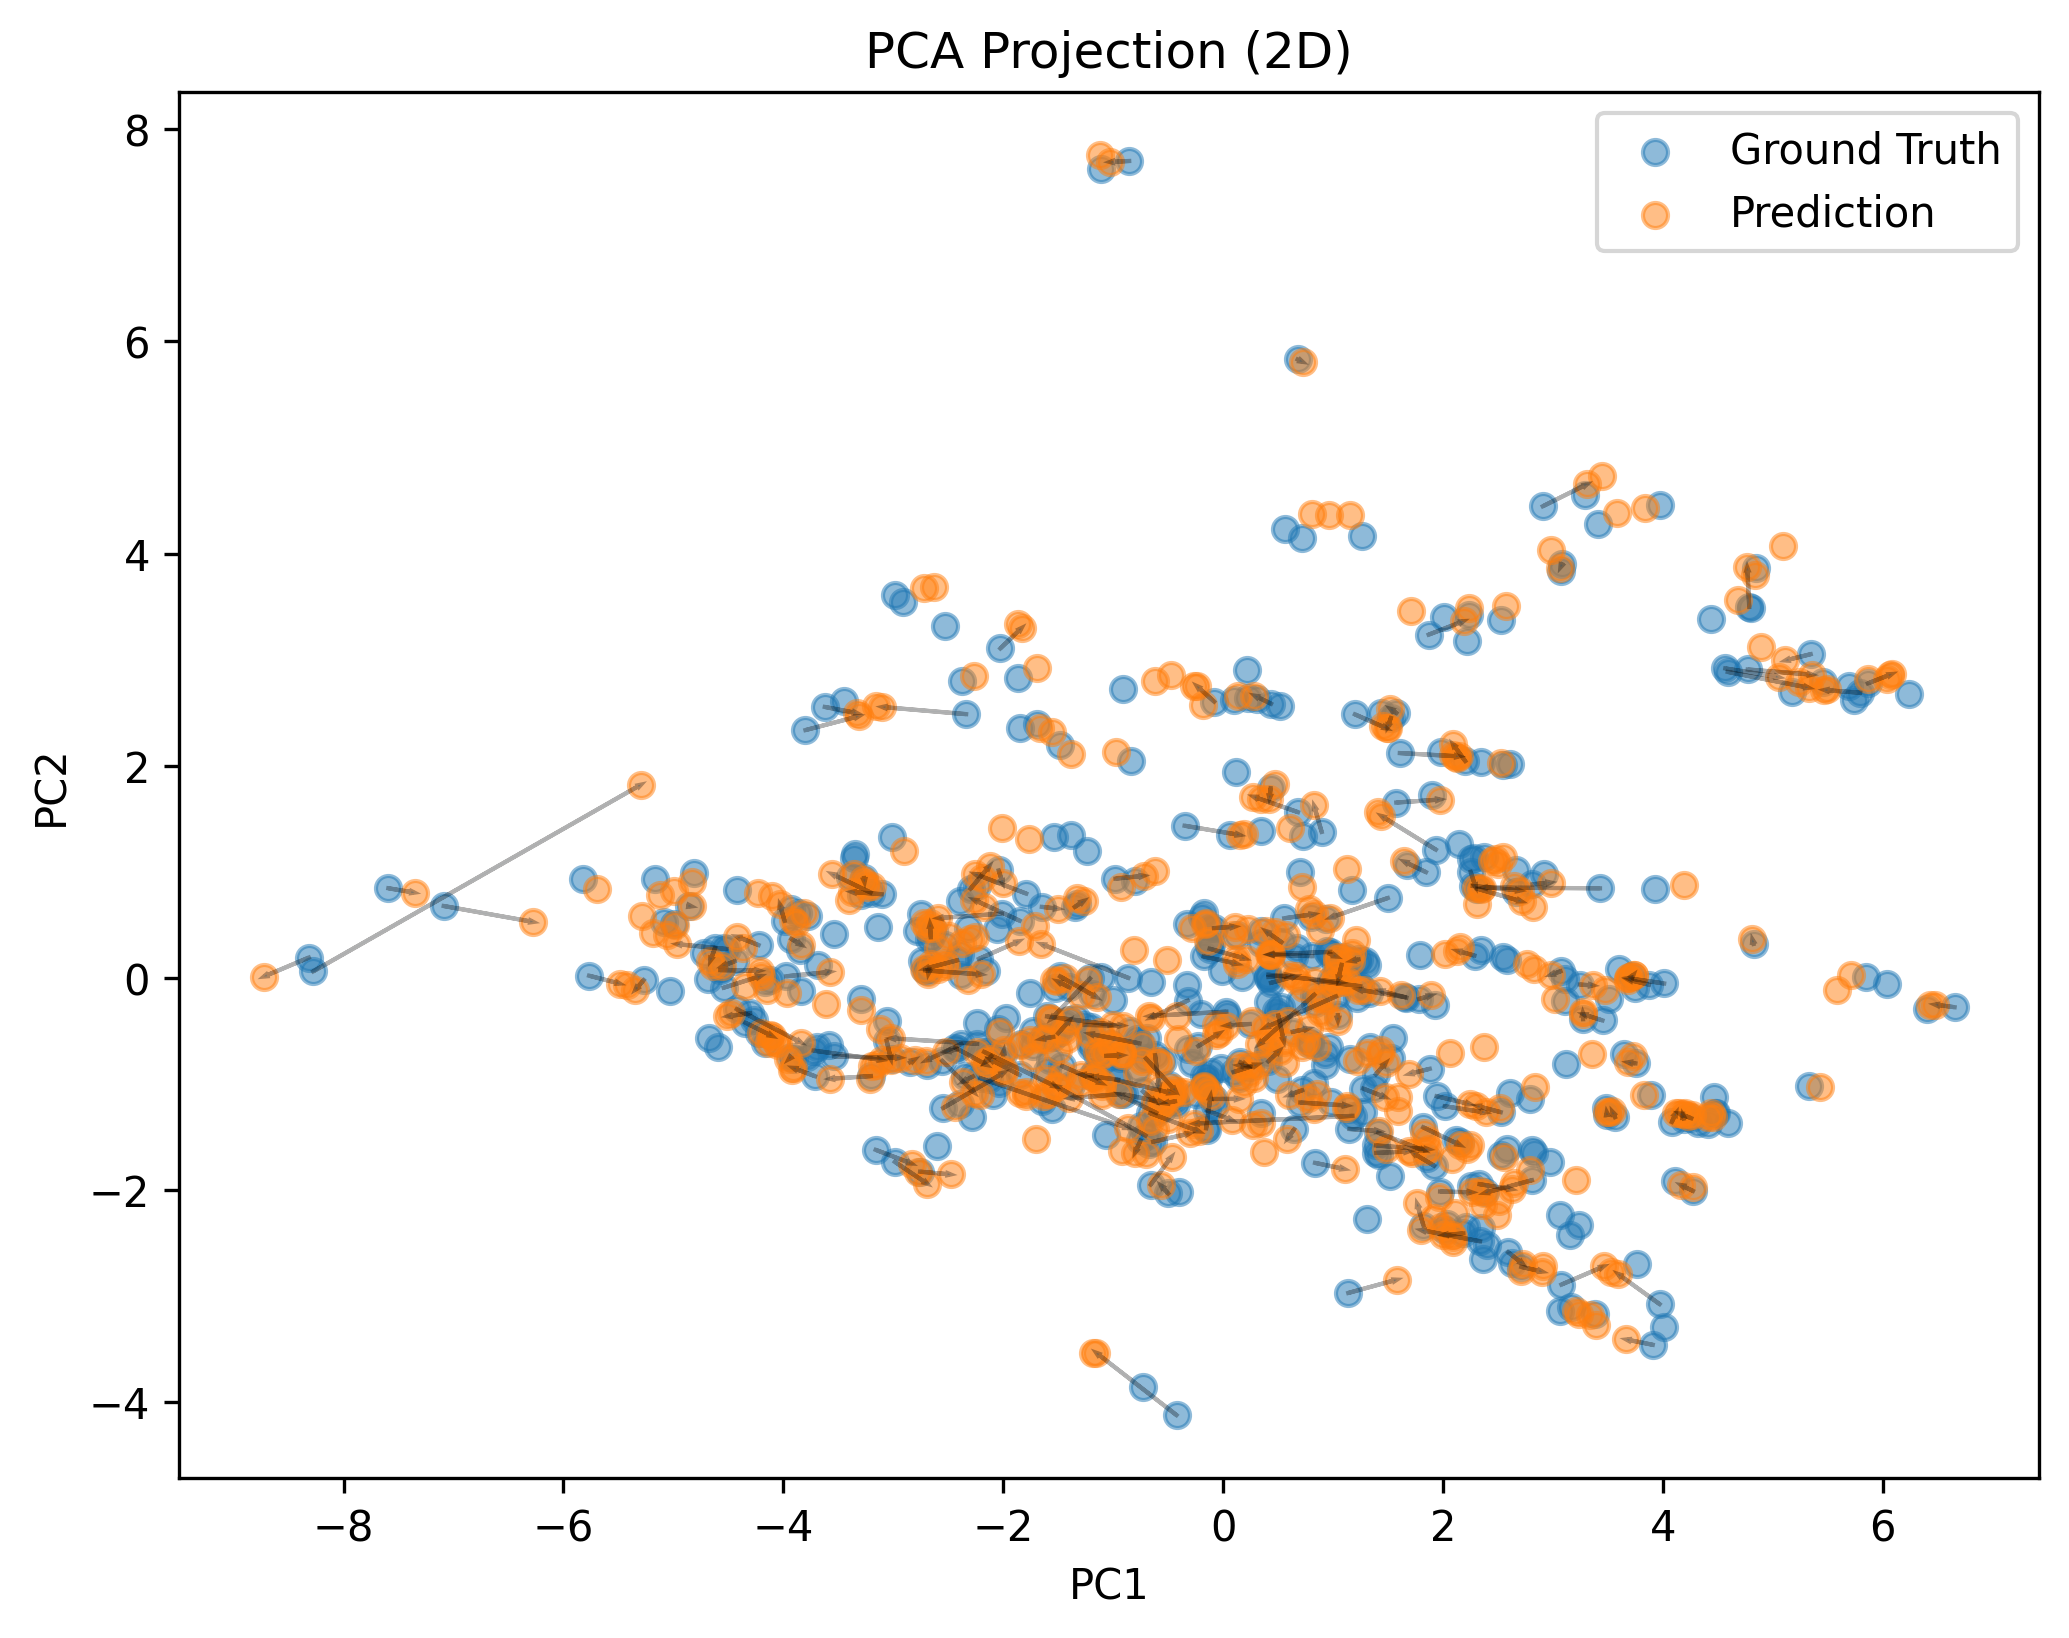
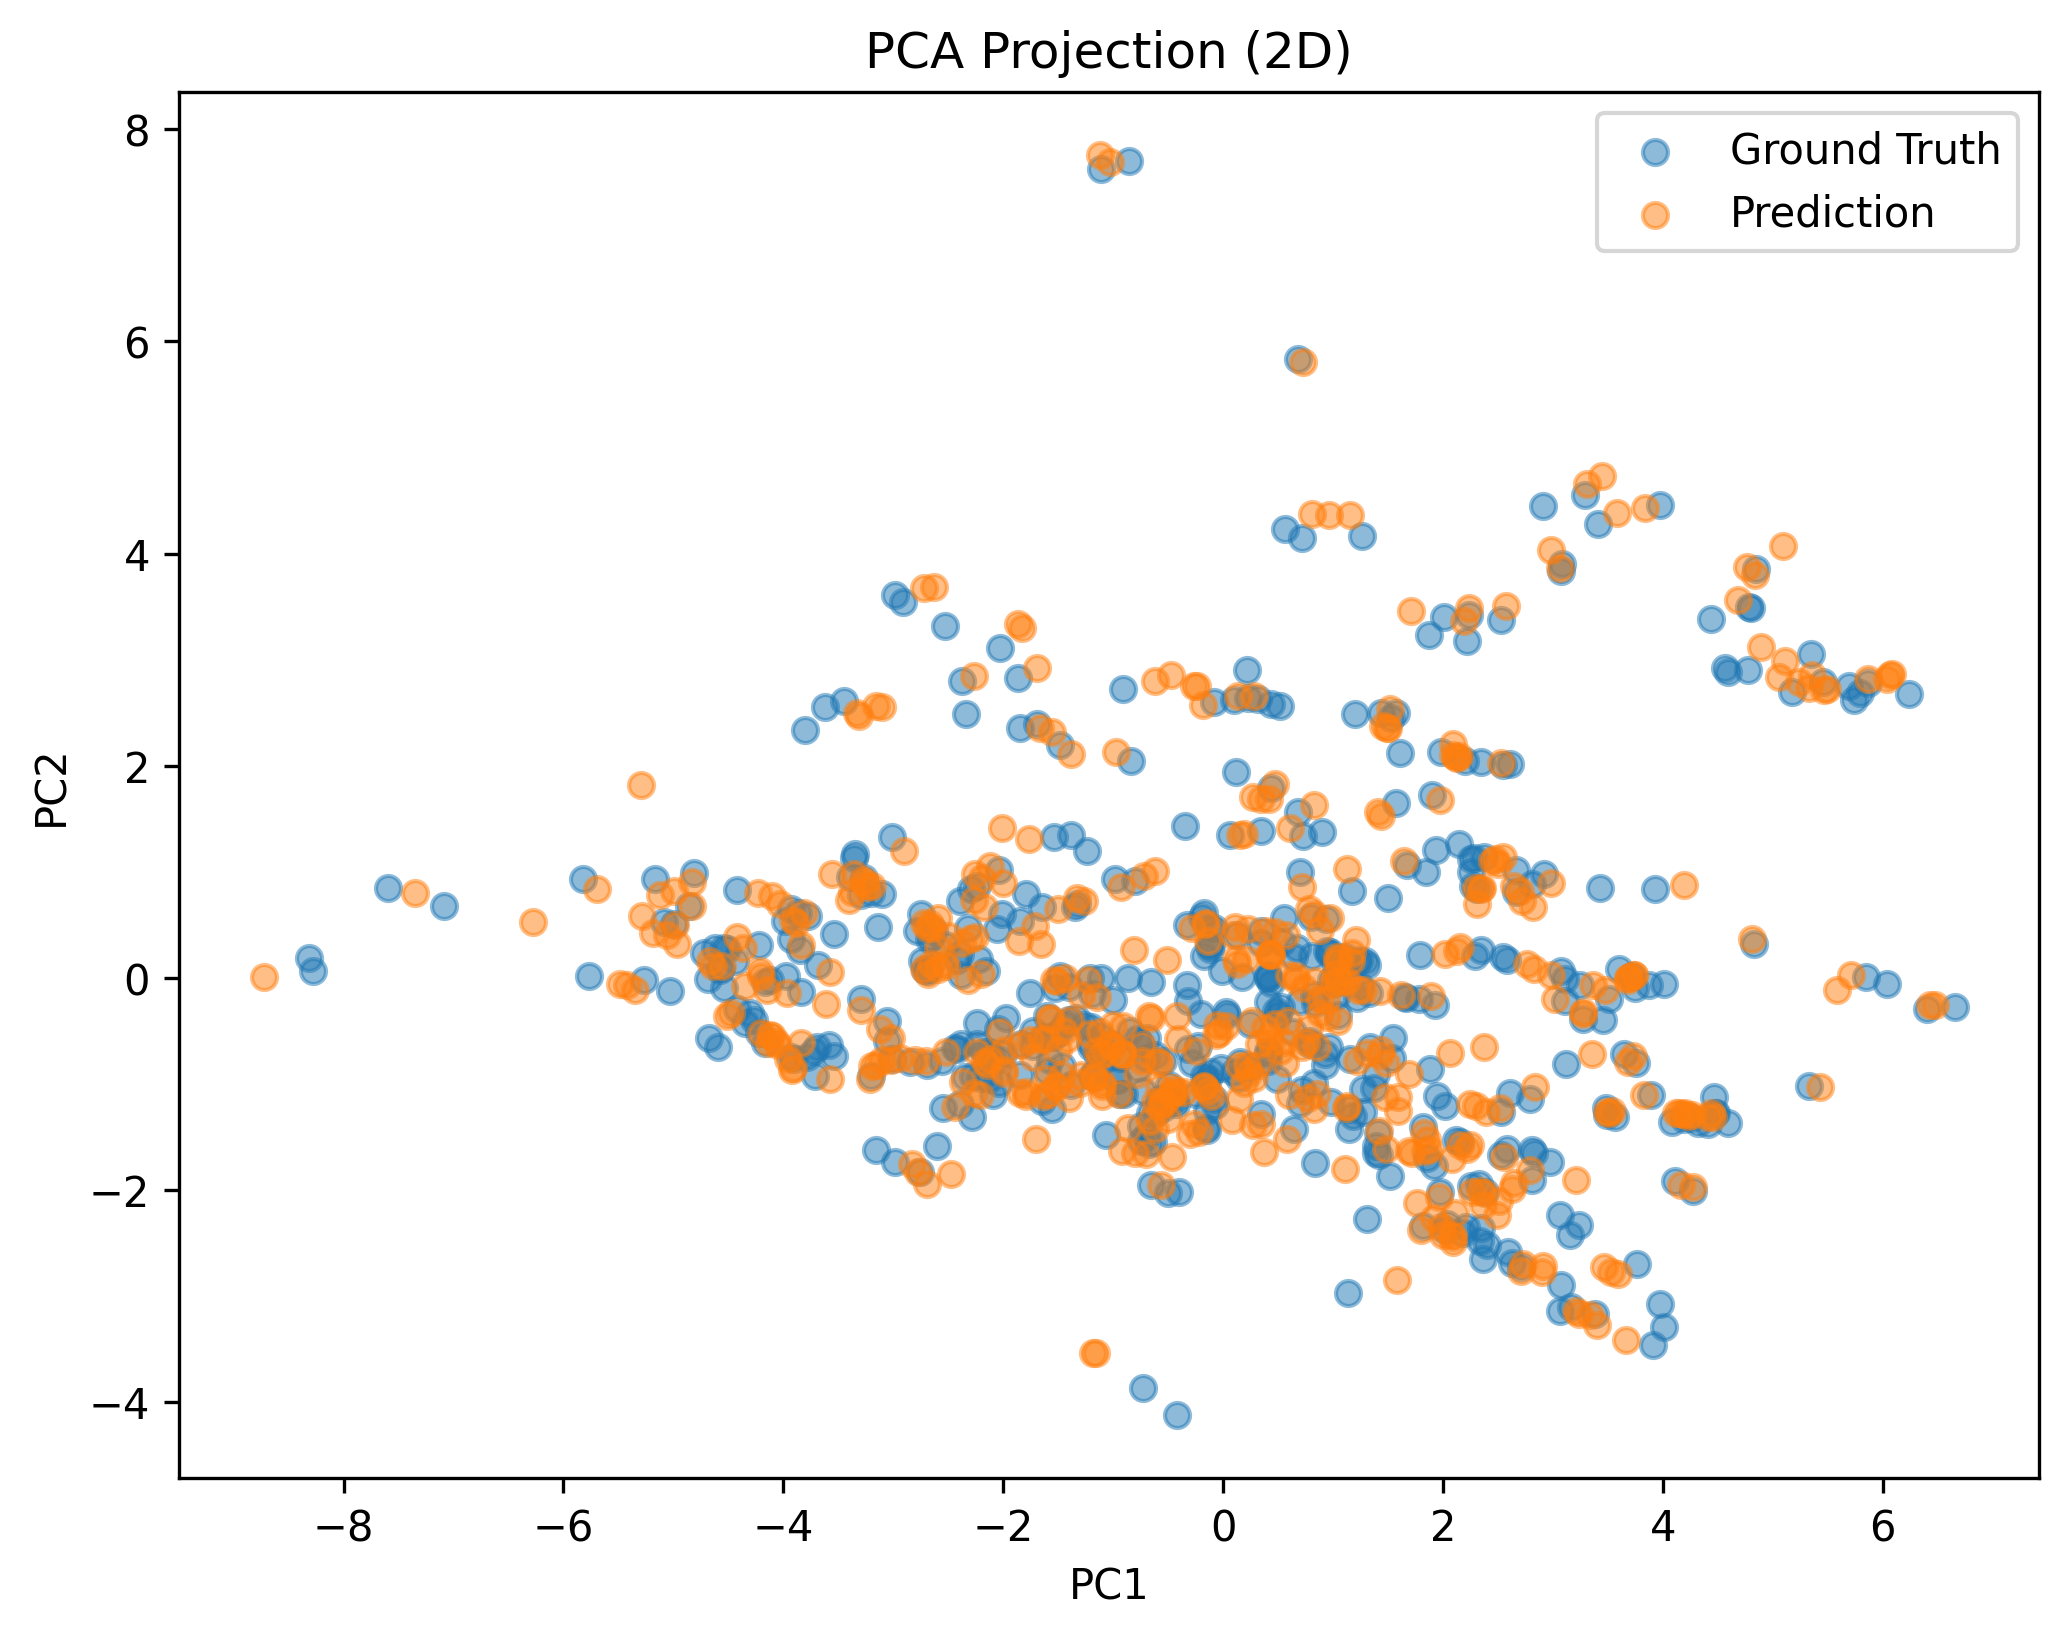
Small fixes in figures and added new figures

diff --git a/src/train_and_evaluate.py b/src/train_and_evaluate.py
@@ -8,14 +8,16 @@ from model import CustomLoss
 from model import InksNet
 import time
 import datetime
-from sklearn.metrics import confusion_matrix, r2_score, mean_absolute_error, mean_squared_error
+from sklearn.metrics import confusion_matrix, r2_score, mean_absolute_error, mean_squared_error, accuracy_score, f1_score, precision_recall_fscore_support
 import seaborn as sns
 from seaborn import heatmap
 import json
 from matplotlib.pyplot import cm
 from matplotlib.lines import Line2D
 from scipy.stats import probplot
+from scipy.cluster.hierarchy import linkage, leaves_list
 from sklearn.decomposition import PCA
+from collections import Counter
 
 import torch.optim as optim
 import optuna
@@ -249,7 +251,7 @@ def compute_metrics(outputs, labels):
 
     return summary
 
-def plot_pred_vs_gt(outputs, labels, elements_to_keep, xlabel='Ground truth', ylabel='Prediction', path_to_save=None):
+def plot_pred_vs_gt(outputs, labels, elements_to_keep, xlabel='True value', ylabel='Prediction', path_to_save=None):
 
     n_dims = outputs.shape[1]
     fig, axes = plt.subplots(2, n_dims//2 + 1, figsize=(16, 10))
@@ -290,7 +292,7 @@ def plot_pred_vs_gt(outputs, labels, elements_to_keep, xlabel='Ground truth', yl
 def plot_residuals(outputs, labels, elements_to_keep, xlabel='True value', ylabel='Residual', path_to_save=None):
 
     n_dims = outputs.shape[1]
-    fig, axes = plt.subplots(2, n_dims//2 + 1, figsize=(16, 10), sharey=True)
+    fig, axes = plt.subplots(2, n_dims//2 + 1, figsize=(12, 5), sharey=True)
     axes = axes.flatten()
 
     y_max_max = (outputs-labels).max().max()
@@ -306,21 +308,23 @@ def plot_residuals(outputs, labels, elements_to_keep, xlabel='True value', ylabe
 
         ax.plot([min_val, max_val], [mean_res, mean_res], 'black')
 
-        ax.scatter(y_true, y_pred-y_true, alpha=0.25, color='red')
+        ax.scatter(y_true, y_pred-y_true, alpha=0.25)
 
         title = elements_to_keep[i]
 
         y_max = (y_pred-y_true).max()
         y_min = (y_pred-y_true).min()
         text = 'Mean residual: \n' + str(np.round(mean_res, 3))
-        ax.text(min_val, y_max_max-0.45, text)
+        ax.text(min_val, y_max_max-0.85, text)
 
-        ax.set_title(title, size=15)
+        ax.tick_params(axis='both', labelsize=5)
+
+        ax.set_title(title, size=10)
 
     axes[-1].set_axis_off()
 
-    fig.text(0.52, 0.05, xlabel, ha='center', size=18)
-    fig.text(0.08, 0.5, ylabel, va='center', rotation='vertical', size=18)
+    fig.text(0.52, 0.0, xlabel, ha='center', size=25)
+    fig.text(0.06, 0.55, ylabel, va='center', rotation='vertical', size=25)
 
     #plt.tight_layout()
     if path_to_save:
@@ -352,8 +356,8 @@ def plot_error_distributions(outputs, labels, elements_to_keep, xlabel='Residual
 
     axes[-1].set_axis_off()
 
-    fig.text(0.52, 0.03, xlabel, ha='center', size=18)
-    fig.text(0.08, 0.5, ylabel, va='center', rotation='vertical', size=18)
+    fig.text(0.52, 0.03, xlabel, ha='center', size=34)
+    fig.text(0.08, 0.5, ylabel, va='center', rotation='vertical', size=34)
 
     #plt.tight_layout()
     if path_to_save:
@@ -364,7 +368,7 @@ def plot_error_distributions(outputs, labels, elements_to_keep, xlabel='Residual
 def plot_qq(outputs, labels, elements_to_keep, xlabel='Theoretical quantiles', ylabel='Prediction quantiles', path_to_save=None):
 
     n_dims = outputs.shape[1]
-    fig, axes = plt.subplots(2, n_dims//2 + 1, figsize=(16, 8), sharey=True, sharex=True)
+    fig, axes = plt.subplots(2, n_dims//2 + 1, figsize=(16, 6), sharey=True, sharex=True)
     axes = axes.flatten()
 
     for i in range(n_dims):
@@ -381,12 +385,13 @@ def plot_qq(outputs, labels, elements_to_keep, xlabel='Theoretical quantiles', y
 
         title = elements_to_keep[i]
 
+        ax.tick_params(axis='both', labelsize=8)
         ax.set_title(title, size=15)
 
     axes[-1].set_axis_off()
 
-    fig.text(0.52, 0.03, xlabel, ha='center', size=18)
-    fig.text(0.08, 0.5, ylabel, va='center', rotation='vertical', size=18)
+    fig.text(0.52, 0.0, xlabel, ha='center', size=34)
+    fig.text(0.08, 0.5, ylabel, va='center', rotation='vertical', size=34)
 
     #plt.tight_layout()
     if path_to_save:
@@ -413,36 +418,51 @@ def plot_error_violinplot(outputs, labels, elements_to_keep, xlabel='', ylabel='
 
     residuals_all = outputs - labels
 
-    fig = plt.figure(figsize=(10, 5))
+    fig = plt.figure(figsize=(16, 8))
     ax = sns.violinplot(data=residuals_all)
     fig.text(0.52, 0.03, xlabel, ha='center', size=18)
-    fig.text(0.07, 0.5, ylabel, va='center', rotation='vertical', size=18)
-    ax.set_xticklabels(elements_to_keep, size=15)
+    fig.text(0.07, 0.5, ylabel, va='center', rotation='vertical', size=32)
+    ax.set_xticklabels(elements_to_keep, size=25)
 
     if path_to_save:
         plt.savefig(path_to_save+'error_violinplot.png', dpi=300, bbox_inches="tight")
     plt.show()
     plt.close(fig)
 
-def plot_correlation_heatmaps(outputs, labels, elements_to_keep, xlabel='', ylabel='Residual', path_to_save=None):
+def plot_correlation_heatmaps(outputs, labels, elements_to_keep, xlabel='', ylabel='Residual', cluster=False, path_to_save=None):
+
+    def clustered_corr(data, method='average'):
+        corr = np.corrcoef(data, rowvar=False)
+        Z = linkage(corr, method=method)
+        order = leaves_list(Z)
+        return corr[order][:, order]
 
     fig = plt.figure(figsize=(12, 5))
 
     plt.subplot(1, 2, 1)
-    ax = sns.heatmap(np.corrcoef(labels, rowvar=False), annot=False)
+    if cluster:
+        ax = sns.heatmap(clustered_corr(labels), annot=False, cmap='rocket_r')
+    else:
+        ax = sns.heatmap(np.corrcoef(labels, rowvar=False), annot=False, cmap='rocket_r')
+
     ax.set_xticklabels(elements_to_keep)
     ax.set_yticklabels(elements_to_keep)
+
     plt.tick_params(axis='both', which='major', labelbottom = False, bottom=False, top = True, labeltop=True)
-    #plt.title("Ground Truth Correlation")
 
     plt.subplot(1, 2, 2)
-    ax = sns.heatmap(np.corrcoef(outputs, rowvar=False), annot=False)
+    if cluster:
+        ax = sns.heatmap(clustered_corr(outputs), annot=False, cmap='rocket_r')
+    else:
+        ax = sns.heatmap(np.corrcoef(outputs, rowvar=False), annot=False, cmap='rocket_r')
+
     ax.set_xticklabels(elements_to_keep)
     ax.set_yticklabels(elements_to_keep)
-    plt.tick_params(axis='both', which='major', labelbottom = False, bottom=False, top = True, labeltop=True)
-    #plt.title("Prediction Correlation")
 
-    fig.text(0.47, 0.05, "Ground Truth Correlation                           Prediction Correlation", ha='center', size=18)
+
+    plt.tick_params(axis='both', which='major', labelbottom = False, bottom=False, top = True, labeltop=True)
+
+    fig.text(0.47, 0.05, "     True correlations               Prediction correlations", ha='center', size=25)
 
     if path_to_save:
         plt.savefig(path_to_save+'correlation_heatmap.png', dpi=300, bbox_inches="tight")
@@ -456,10 +476,10 @@ def plot_l2_error(outputs, labels, path_to_save=None):
 
     true_norm = np.linalg.norm(labels, axis=1)
 
-    fig = plt.figure(figsize=(8,5))
+    fig = plt.figure(figsize=(10, 6))
     plt.scatter(true_norm, l2_error, alpha=0.5)
-    plt.xlabel("Sum of ground truth magnitudes for all elements", size=18)
-    plt.ylabel("L2 error of prediction", size=18)
+    plt.xlabel("Sum of true magnitudes", size=34)
+    plt.ylabel("L2 error of prediction", size=33)
 
     if path_to_save:
         plt.savefig(path_to_save+'global_error_vs_magnitude.png', dpi=300, bbox_inches="tight")
@@ -503,7 +523,120 @@ def plot_pca_projection(outputs, labels, path_to_save=None, max_arrows=200):
     plt.show()
     plt.close(fig)
 
-# CLASSIFICATION-BASED STATISTICS AND VISUALISATIONS
+# CLASSIFICATION-BASED STATISTICS AND VISUALISATIONS PART 1
+
+def plot_topk_confusion(y_true, y_pred, top_k=20, path_to_save=None):
+
+    # get most frequent classes
+    counts = Counter(y_true)
+    top_classes = [c for c, _ in counts.most_common(top_k)]
+    print(top_classes)
+
+    mask = np.isin(y_true, top_classes)
+    y_true_k = y_true[mask]
+    y_pred_k = y_pred[mask]
+
+    cm = confusion_matrix(y_true_k, y_pred_k, labels=top_classes)
+
+    plt.figure(figsize=(8, 6))
+    plt.imshow(cm, cmap=sns.cm.rocket_r)
+
+    plt.title(f"Top-{top_k} confusion matrix", size=25)
+    plt.xlabel("Predicted class", size=25)
+    plt.ylabel("True class", size=25)
+    plt.xticks([])
+    plt.yticks([])
+    #plt.colorbar()
+
+    if path_to_save:
+        plt.savefig(path_to_save+'top_k_confusion_matrix.png', dpi=300, bbox_inches="tight")
+    plt.show()
+    plt.close()
+
+
+def plot_prf_distribution_subplots(y_true, y_pred, xlabel='Score distribution', ylabel='Count', path_to_save=None):
+
+    precision, recall, f1, _ = precision_recall_fscore_support(
+        y_true, y_pred, average=None
+    )
+
+    fig, axes = plt.subplots(1, 3, sharey=True, figsize=(16,6))
+
+    axes[0].hist(precision, bins=30)
+    axes[0].set_xlabel("Precision", size=25)
+
+    axes[1].hist(recall, bins=30)
+    axes[1].set_xlabel("Recall", size=25)
+
+    axes[2].hist(f1, bins=30)
+    axes[2].set_xlabel("F1", size=25)
+
+    fig.text(0.5, 0.9, xlabel, ha='center', size=25)
+    fig.text(0.05, 0.5, ylabel, va='center', rotation='vertical', size=25)
+
+    if path_to_save:
+        plt.savefig(path_to_save+'prec_rec_f1_distributions.png', dpi=300, bbox_inches="tight")
+    plt.show()
+    plt.close()
+
+def plot_error_distribution(y_true, y_pred, path_to_save=None):
+    errors = y_true[y_true != y_pred]
+    error_counts = Counter(errors)
+
+    sorted_counts = sorted(error_counts.values(), reverse=True)
+
+    plt.figure()
+    plt.plot(sorted_counts)
+    plt.title("Error distribution (long tail)")
+    plt.xlabel("Class rank")
+    plt.ylabel("Number of errors")
+
+    if path_to_save:
+        plt.savefig(path_to_save+'error_distribution_classification.png', dpi=300, bbox_inches="tight")
+    plt.show()
+    plt.close()
+
+def plot_freq_vs_f1(y_true, y_pred, xlabel='Class frequency', path_to_save=None):
+
+
+    counts = Counter(y_true)
+    labels = np.unique(y_true)
+
+    precision, recall, f1, _ = precision_recall_fscore_support(
+        y_true, y_pred, labels=labels, average=None
+    )
+
+    freqs = np.array([counts[l] for l in labels])
+
+    fig, axes = plt.subplots(1, 3, sharey=True, figsize=(16,6))
+
+    #axes[0].hist2d(freqs, precision, bins=30)
+    axes[0].scatter(freqs, precision, alpha = 0.2, s=[0.7*len(freqs)])
+    axes[0].set_ylabel("Precision", size=25)
+
+    #axes[1].hist2d(freqs, recall, bins=30)
+    axes[1].scatter(freqs, recall, alpha = 0.2, s=[0.7*len(freqs)])
+    axes[1].set_ylabel("Recall", size=25)
+
+    #axes[2].hist2d(freqs, f1, bins=30)
+    axes[2].scatter(freqs, f1, alpha = 0.2, s=[0.7*len(freqs)])
+    axes[2].set_ylabel("F1", size=25)
+
+    fig.text(0.5, 0.0, xlabel, ha='center', size=25)
+    #fig.colorbar(label="Number of classes")
+    #fig.text(0.05, 0.5, ylabel, va='center', rotation='vertical', size=25)
+
+    # plt.figure()
+    # plt.scatter(freqs, f1, alpha = 0.2)
+    # plt.ylabel("F1 score")
+    # plt.title("Class frequency vs F1")
+    if path_to_save:
+        plt.savefig(path_to_save+'freq_vs_f1.png', dpi=300, bbox_inches="tight")
+    plt.show()
+    plt.close()
+
+
+# CLASSIFICATION-BASED STATISTICS AND VISUALISATIONS PART 2
 
 def create_means_df(elements_to_keep, y_train, train_order, y_val, val_order):
 

diff --git a/analysis/4_neural_network_validation.py b/analysis/4_neural_network_validation.py
@@ -151,11 +151,11 @@ print(torch.mean(difference, axis=0))
 # Consecutive coordinates correspond to: Al, S, Cr, Mn, Co, Cu, Zn, Pb, Fe, Mg.
 # Significance of elements: Cu >> Mn > Al > Zn > Pb > S > Cr > Co >> all the others.
 
-# Visualise prediction against true:
+# BASIC DIAGNOSTIC PLOTS
 
-# plot_pred_vs_gt(to_numpy(outputs), to_numpy(labels), ELEMENTS_TO_KEEP, xlabel='Logarithmed ground truth', ylabel='Logarithmed prediction', path_to_save=FIGURES_PATH)
+# plot_pred_vs_gt(to_numpy(outputs), to_numpy(labels), ELEMENTS_TO_KEEP, xlabel='Logarithmed true value', ylabel='Logarithmed prediction', path_to_save=FIGURES_PATH)
 
-# plot_residuals(to_numpy(outputs), to_numpy(labels), ELEMENTS_TO_KEEP, xlabel='True value (logarithmed)', path_to_save=FIGURES_PATH)
+# plot_residuals(to_numpy(outputs), to_numpy(labels), ELEMENTS_TO_KEEP, xlabel='Logarithmed true value', path_to_save=FIGURES_PATH)
 
 # plot_error_distributions(to_numpy(outputs), to_numpy(labels), ELEMENTS_TO_KEEP, xlabel='Residual', ylabel='Count', path_to_save=FIGURES_PATH)
 
@@ -165,12 +165,11 @@ print(torch.mean(difference, axis=0))
 
 # plot_error_violinplot(to_numpy(outputs), to_numpy(labels), ELEMENTS_TO_KEEP, xlabel='', ylabel='Residual', path_to_save=FIGURES_PATH)
 
-# plot_correlation_heatmaps(to_numpy(outputs), to_numpy(labels), ELEMENTS_TO_KEEP, xlabel='', ylabel='Residual', path_to_save=FIGURES_PATH)
+# plot_correlation_heatmaps(to_numpy(outputs), to_numpy(labels), ELEMENTS_TO_KEEP, xlabel='', ylabel='Residual', cluster=True, path_to_save=FIGURES_PATH)
 
 # plot_l2_error(to_numpy(outputs), to_numpy(labels), path_to_save=FIGURES_PATH)
 
-plot_pca_projection(to_numpy(outputs), to_numpy(labels), path_to_save=FIGURES_PATH)
-
+# plot_pca_projection(to_numpy(outputs), to_numpy(labels), path_to_save=FIGURES_PATH)
 
 
 # for element_nr, element in enumerate(ELEMENTS_TO_KEEP):
@@ -204,6 +203,20 @@ accuracy = compute_accuracy(outputs_df)
 
 print('How about precision and recall?')
 precision, recall = compute_precision_and_recall(outputs_df)
+
+# CLASSIFICATION-BASED STATISTICS AND VISUALISATIONS PART 1
+
+y_true = outputs_df['Real sample_id']
+y_pred = outputs_df['Closest sample id']
+
+#plot_topk_confusion(y_true, y_pred, top_k=20, path_to_save=FIGURES_PATH)
+
+plot_prf_distribution_subplots(y_true, y_pred, path_to_save=FIGURES_PATH)
+
+#plot_freq_vs_f1(y_true, y_pred, path_to_save=FIGURES_PATH)
+
+
+# CLASSIFICATION-BASED STATISTICS AND VISUALISATIONS PART 2
 
 
 # plot_confusion_matrix(true_labels = outputs_df['Real sample_id'], 
